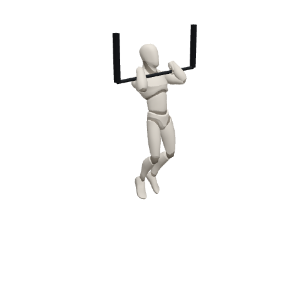
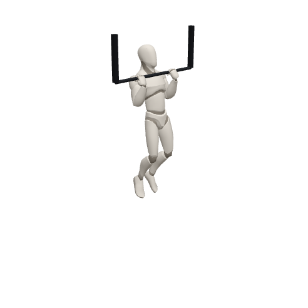
Etapas traducidas, agarre supino de verdad y punta del pie sobre el banco
LAS ETIQUETAS DE LA LÍNEA DE TIEMPO SALÍAN EN CRUDO. Cinco etapas —colgado,
pecho a la barra, barbilla arriba, de pie, extendido— no estaban en ui.json,
así que `t()` devolvía la clave y en la barra se leía "FIGURA.ETAPAS.PECHO A
LA BARRA" pisando al rótulo de al lado. En móvil no se entendía nada. `t()`
solo avisa por console.warn, que ninguna comprobación miraba.

El propio ui.json ya prometía que "el validador de idiomas lo caza". No lo
cazaba: ahora sí. `check-idiomas.mjs` compara las etiquetas de todos los
movimientos con figura.etapas en cada idioma y bloquea si falta alguna. Una
de las cinco, `extendido`, llevaba rota desde antes de estas tandas.

EL AGARRE SUPINO GIRABA SOBRE EL EJE EQUIVOCADO. Lo hacía media vuelta
alrededor de la barra, y eso invierte la palma pero TAMBIÉN el eje largo de
la mano, que es el que usa la cinemática para decidir de qué lado de la
barra cae la muñeca. Resultado: el puño cerrado sobre el aire con la barra
rozando los nudillos por fuera. Supinar es girar la mano sobre su propio eje
—post-multiplicar, no pre-multiplicar—, y entonces la palma cambia de lado y
la muñeca se queda donde debe.

`apoyo: metatarso` SUPONÍA QUE EL SUELO ESTÁ A CERO. En la sentadilla
búlgara el pie de atrás apoya la punta sobre un banco a 36 cm; dando por
supuesto el suelo, la cuenta pedía estirar el tobillo casi 90° y el pie
salía colgando en vertical. Ahora el miembro puede declarar `superficie`.
[…]

Changed region(s): [[0.3506, 0.0584, 0.6429, 0.6429]]

diff --git a/src/figura/cinematica.js b/src/figura/cinematica.js
@@ -665,8 +665,14 @@ function posarPierna(esq, pose, l, Fpelvis, anotar, avisos) {
      * pie se inclina lo justo para que la articulación de los dedos toque el suelo, y los dedos se
      * quedan planos. Escribirlo a mano significaba reajustarlo en cada pose intermedia.
      */
+    /*
+     * `superficie` es la altura de LO QUE PISA, no siempre el suelo. En la sentadilla búlgara el pie
+     * de atrás apoya la punta sobre un banco a 36 cm: dando por supuesto el suelo, la cuenta pedía
+     * estirar el tobillo casi 90° y el pie salía colgando en vertical como si señalara al suelo.
+     */
+    const superficie = m.superficie ?? 0;
     const alturaTobillo = posicion(huesos[`pie_${l}`]).y;
-    const seno = Math.min(1, Math.max(-1, (alturaTobillo - ALTURA_ALMOHADILLA) / esq.longitudes.pie));
+    const seno = Math.min(1, Math.max(-1, (alturaTobillo - ALTURA_ALMOHADILLA - superficie) / esq.longitudes.pie));
     let inclinacion = Math.min(Math.asin(seno), 85 * GRAD);
 
     /*
